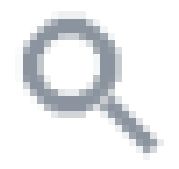
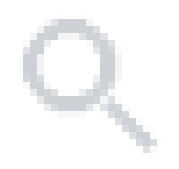
исправляет встраивание иконки поиска в ресурсы сборки

Changed region(s): [[0.1117, 0.0888, 0.8939, 0.9172]]

diff --git a/src/MiniPdm.UI/MainWindow.xaml b/src/MiniPdm.UI/MainWindow.xaml
@@ -226,8 +226,8 @@
                         </Grid.ColumnDefinitions>
 
                         <!-- Иконка лупы -->
-                        <Image Grid.Column="0" Source="/Resources/search-icon.png" Width="14" Height="14"
-                               VerticalAlignment="Center" Margin="0,0,8,0"
+                        <Image Grid.Column="0" Source="pack://application:,,,/MiniPdm.UI;component/Resources/search-icon.png"
+                               Width="15" Height="15" VerticalAlignment="Center" Margin="0,0,8,0"
                                RenderOptions.BitmapScalingMode="HighQuality"/>
 
                         <!-- Текстовое поле ввода -->

diff --git a/src/MiniPdm.UI/Common/WindowHelper.cs b/src/MiniPdm.UI/Common/WindowHelper.cs
@@ -65,3 +65,4 @@ public static class WindowHelper
     [DllImport("user32.dll", SetLastError = true)]
     private static extern IntPtr SendMessage(IntPtr hwnd, uint msg, IntPtr wParam, IntPtr lParam);
 }
+
